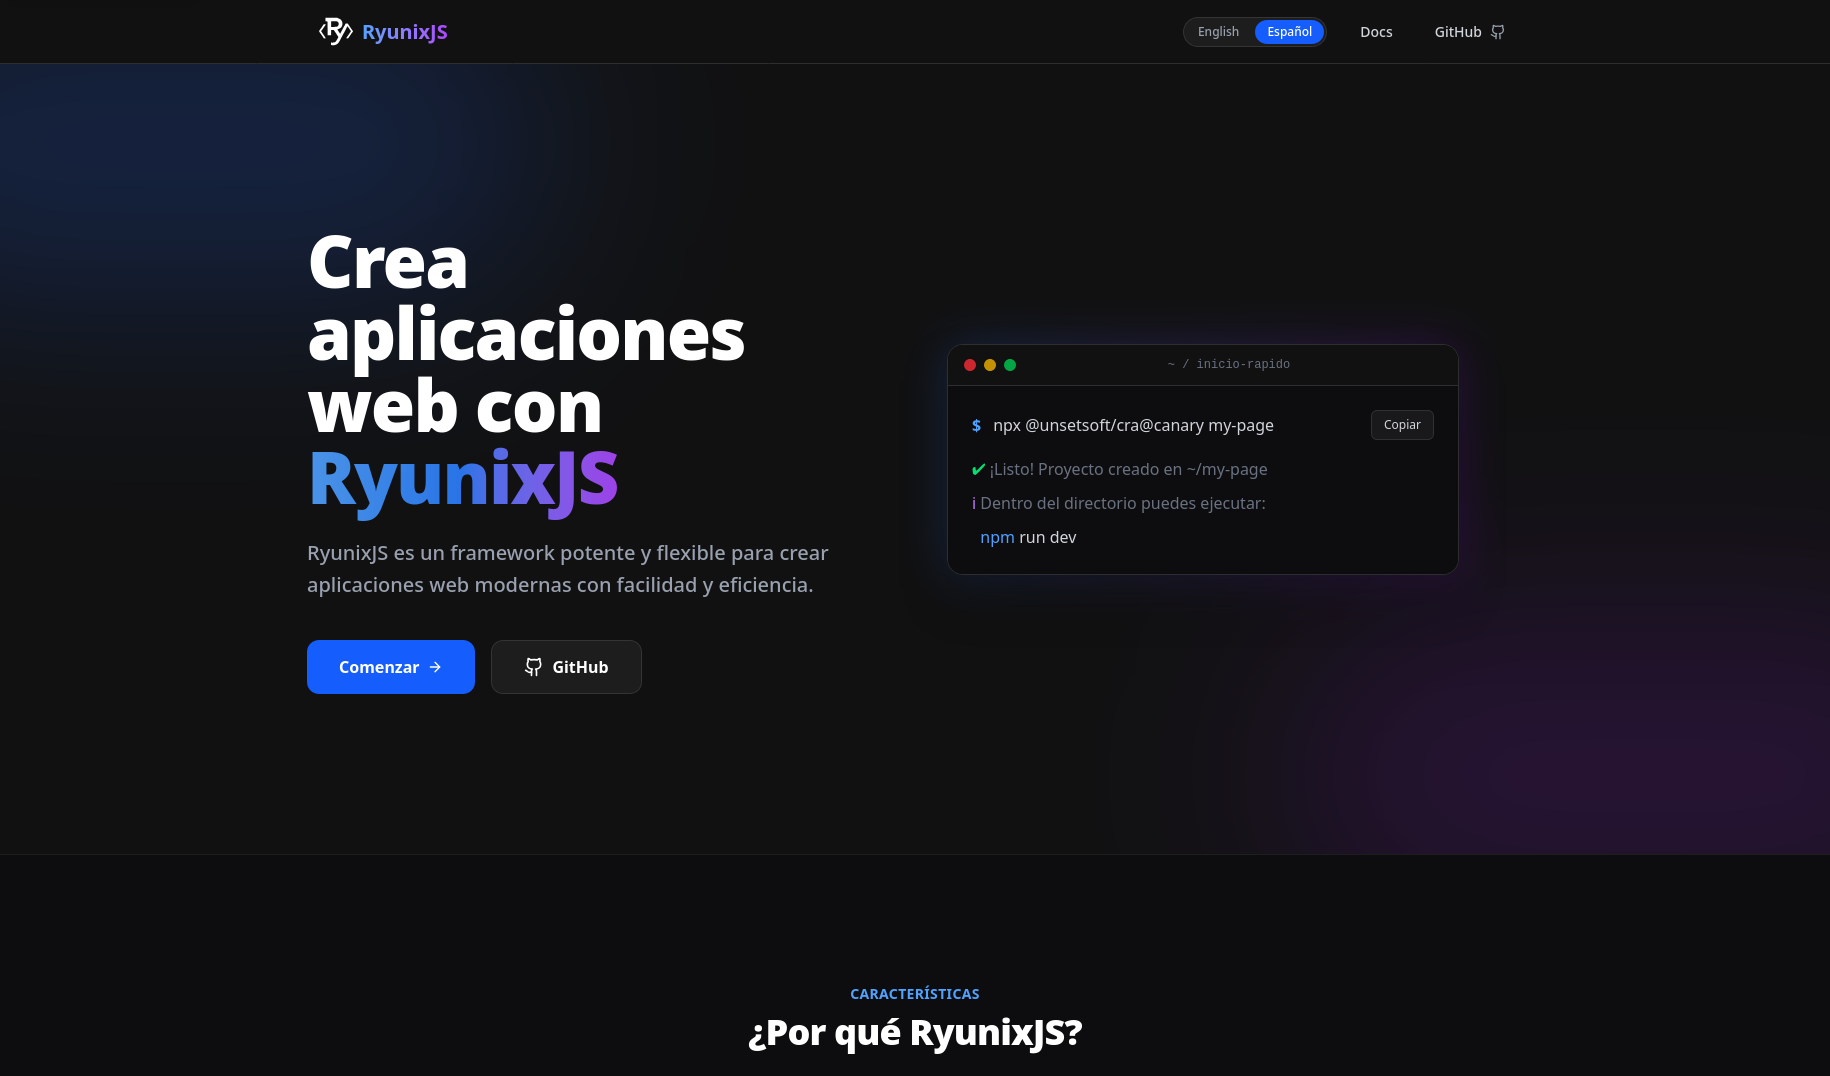
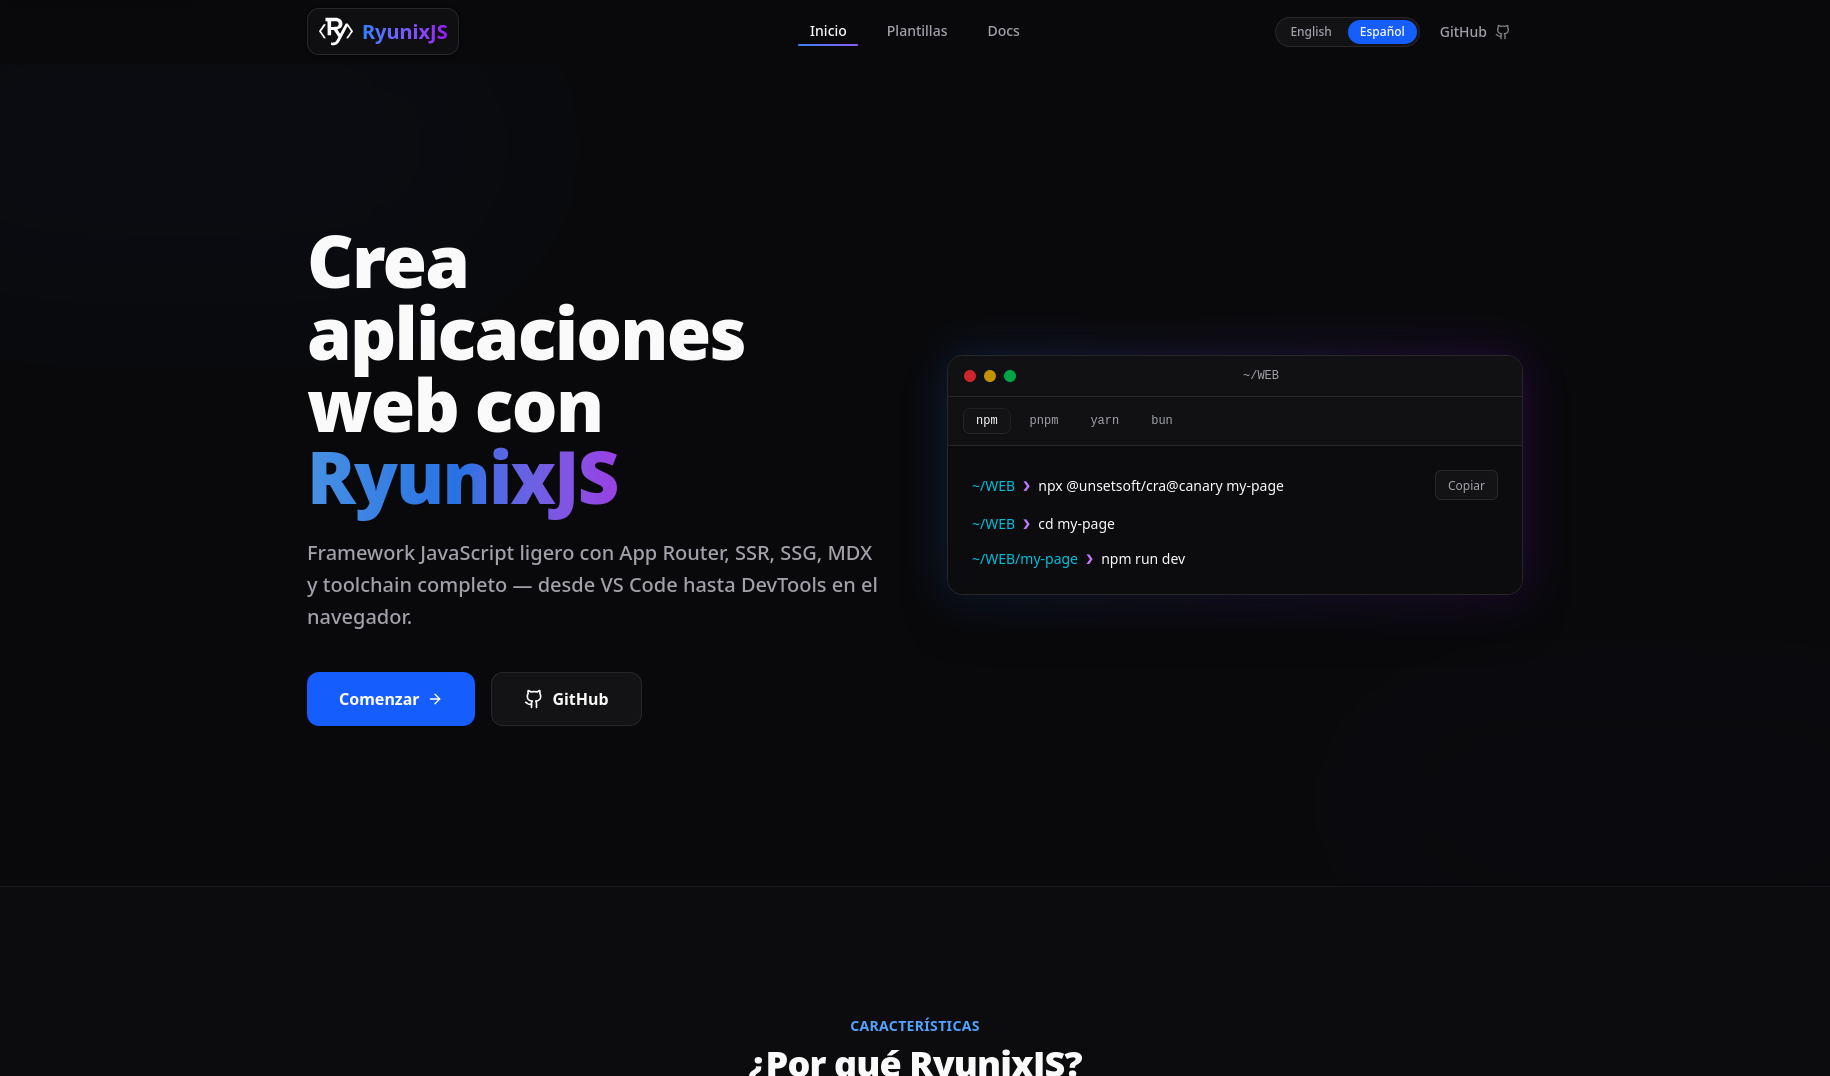
feat(site): add Open Graph image and home spotlight media
feat(site): wire siteOgImage across root, locale, and docs layouts
feat(site): add public spotlight assets and themed FeatureSpotlight framing
docs(site): document OG setup and preview in SEO and getting-started guides
fix(build): scope Tailwind PostCSS base path to src

diff --git a/src/features/home/homeCopy.ts b/src/features/home/homeCopy.ts
@@ -39,7 +39,7 @@ export const homeCopy = {
         ],
         linkLabel: "VS Code guide",
         linkPath: "guides/vscode",
-        image: { src: "/home/vscode-extension.png", alt: "RyunixJS VS Code extension editing a .ryx file" },
+        image: { src: "/vscode-extension.png", alt: "RyunixJS VS Code extension editing a .ryx file" },
         imagePlaceholder: "Add screenshot: VS Code with .ryx syntax and LSP",
         reverse: false,
       },
@@ -56,7 +56,6 @@ export const homeCopy = {
         ],
         linkLabel: "DevTools guide",
         linkPath: "guides/devtools",
-        image: { src: "/home/devtools-panel.png", alt: "Ryunix DevTools browser extension panel" },
         imagePlaceholder: "Add screenshot: Ryunix DevTools panel in Chrome",
         reverse: true,
       },
@@ -77,7 +76,11 @@ export const homeCopy = {
         ],
         linkLabel: "SSG guide",
         linkPath: "guides/ssg",
-        image: { src: "/home/ssg-output.png", alt: "Static HTML output from ryunix build" },
+        image: {
+          src: "/ssg-output.png",
+          alt: "Static HTML output from ryunix build",
+          fit: "contain",
+        },
         imagePlaceholder: "Add screenshot: SSG output or docs site build",
         reverse: false,
       },
@@ -94,7 +97,7 @@ export const homeCopy = {
         ],
         linkLabel: "CLI & Create App",
         linkPath: "guides/create-app",
-        image: { src: "/home/cli-terminal.png", alt: "ryunix CLI commands in a terminal" },
+        image: { src: "/cli-terminal.png", alt: "ryunix CLI commands in a terminal" },
         imagePlaceholder: "Add screenshot: terminal running ryunix dev or build",
         reverse: true,
       },
@@ -172,7 +175,7 @@ export const homeCopy = {
         ],
         linkLabel: "Guía VS Code",
         linkPath: "guides/vscode",
-        image: { src: "/home/vscode-extension.png", alt: "Extensión RyunixJS en VS Code editando un " },
+        image: { src: "/vscode-extension.png", alt: "Extensión RyunixJS en VS Code editando un archivo .ryx" },
         imagePlaceholder: "Añade captura: VS Code con sintaxis .ryx y LSP",
         reverse: false,
       },
@@ -189,7 +192,6 @@ export const homeCopy = {
         ],
         linkLabel: "Guía DevTools",
         linkPath: "guides/devtools",
-        image: { src: "/home/devtools-panel.png", alt: "Panel de Ryunix DevTools en el navegador" },
         imagePlaceholder: "Añade captura: panel Ryunix DevTools en Chrome",
         reverse: true,
       },
@@ -210,7 +212,11 @@ export const homeCopy = {
         ],
         linkLabel: "Guía SSG",
         linkPath: "guides/ssg",
-        image: { src: "/home/ssg-output.png", alt: "Salida HTML estática de ryunix build" },
+        image: {
+          src: "/ssg-output.png",
+          alt: "Salida HTML estática de ryunix build",
+          fit: "contain",
+        },
         imagePlaceholder: "Añade captura: salida SSG o build del sitio de docs",
         reverse: false,
       },
@@ -227,7 +233,7 @@ export const homeCopy = {
         ],
         linkLabel: "CLI y Create App",
         linkPath: "guides/create-app",
-        image: { src: "/home/cli-terminal.png", alt: "Comandos ryunix CLI en terminal" },
+        image: { src: "/cli-terminal.png", alt: "Comandos ryunix CLI en terminal" },
         imagePlaceholder: "Añade captura: terminal con ryunix dev o build",
         reverse: true,
       },

diff --git a/src/i18n/localeDocMeta.ts b/src/i18n/localeDocMeta.ts
@@ -1,3 +1,5 @@
+import { siteOgImage, siteOgImageAlt } from "@/i18n/siteOgImage";
+
 /** Metadatos SEO del layout de documentación por locale. */
 export const localeDocMeta = {
   en: {
@@ -5,6 +7,8 @@ export const localeDocMeta = {
       default: "RyunixJS: The new generation JavaScript Framework",
       template: "%s | RyunixJS",
     },
+    description:
+      "Official RyunixJS documentation — guides, API reference, and examples for building modern web apps.",
     keywords: [
       "Ryunix",
       "Documentation",
@@ -15,6 +19,10 @@ export const localeDocMeta = {
       "ESLint Integration",
       "Webpack Configuration",
     ],
+    "og:type": "website",
+    "og:site_name": "RyunixJS",
+    ...siteOgImage,
+    "og:image:alt": siteOgImageAlt.en,
     "og:locale": "en_US",
     "og:locale:alternate": "es_ES",
   },
@@ -23,6 +31,8 @@ export const localeDocMeta = {
       default: "RyunixJS: El framework JavaScript de nueva generación",
       template: "%s | RyunixJS",
     },
+    description:
+      "Documentación oficial de RyunixJS — guías, referencia de API y ejemplos para crear aplicaciones web modernas.",
     keywords: [
       "Ryunix",
       "Documentación",
@@ -32,6 +42,10 @@ export const localeDocMeta = {
       "ESLint",
       "Webpack",
     ],
+    "og:type": "website",
+    "og:site_name": "RyunixJS",
+    ...siteOgImage,
+    "og:image:alt": siteOgImageAlt.es,
     "og:locale": "es_ES",
     "og:locale:alternate": "en_US",
   },

diff --git a/src/i18n/localeMarketingMeta.ts b/src/i18n/localeMarketingMeta.ts
@@ -1,3 +1,5 @@
+import { siteOgImage, siteOgImageAlt } from "@/i18n/siteOgImage";
+
 /** Home / marketing layout SEO per locale. */
 export const localeMarketingMeta = {
   en: {
@@ -5,21 +7,17 @@ export const localeMarketingMeta = {
       "Official documentation for RyunixJS — guides, API reference, and examples for building modern web apps.",
     "og:type": "website",
     "og:site_name": "RyunixJS",
-    "og:image": "/screenshot.png",
-    "og:image:alt": "RyunixJS documentation site homepage",
+    ...siteOgImage,
+    "og:image:alt": siteOgImageAlt.en,
     "og:locale": "en_US",
-    "twitter:card": "summary_large_image",
-    "twitter:image": "/screenshot.png",
   },
   es: {
     description:
       "Documentación oficial de RyunixJS — guías, referencia de API y ejemplos para crear aplicaciones web modernas.",
     "og:type": "website",
     "og:site_name": "RyunixJS",
-    "og:image": "/screenshot.png",
-    "og:image:alt": "Página de inicio de la documentación de RyunixJS",
+    ...siteOgImage,
+    "og:image:alt": siteOgImageAlt.es,
     "og:locale": "es_ES",
-    "twitter:card": "summary_large_image",
-    "twitter:image": "/screenshot.png",
   },
 };

diff --git a/src/i18n/siteOgImage.ts b/src/i18n/siteOgImage.ts
@@ -1,0 +1,13 @@
+/** Open Graph / Twitter image served from `public/screenshot.png`. */
+export const siteOgImage = {
+  "og:image": "/screenshot.png",
+  "og:image:width": "1830",
+  "og:image:height": "1076",
+  "twitter:card": "summary_large_image",
+  "twitter:image": "/screenshot.png",
+} as const;
+
+export const siteOgImageAlt = {
+  en: "RyunixJS documentation site homepage",
+  es: "Página de inicio de la documentación de RyunixJS",
+} as const;

diff --git a/postcss.config.js b/postcss.config.js
@@ -1,7 +1,14 @@
+import path from "node:path";
+import { fileURLToPath } from "node:url";
+
+const __dirname = path.dirname(fileURLToPath(import.meta.url));
+
 /** @type {import('postcss-load-config').Config} */
 export default {
   plugins: {
-    '@tailwindcss/postcss': {},
+    "@tailwindcss/postcss": {
+      base: path.join(__dirname, "src"),
+    },
     autoprefixer: {},
   },
-}
+};